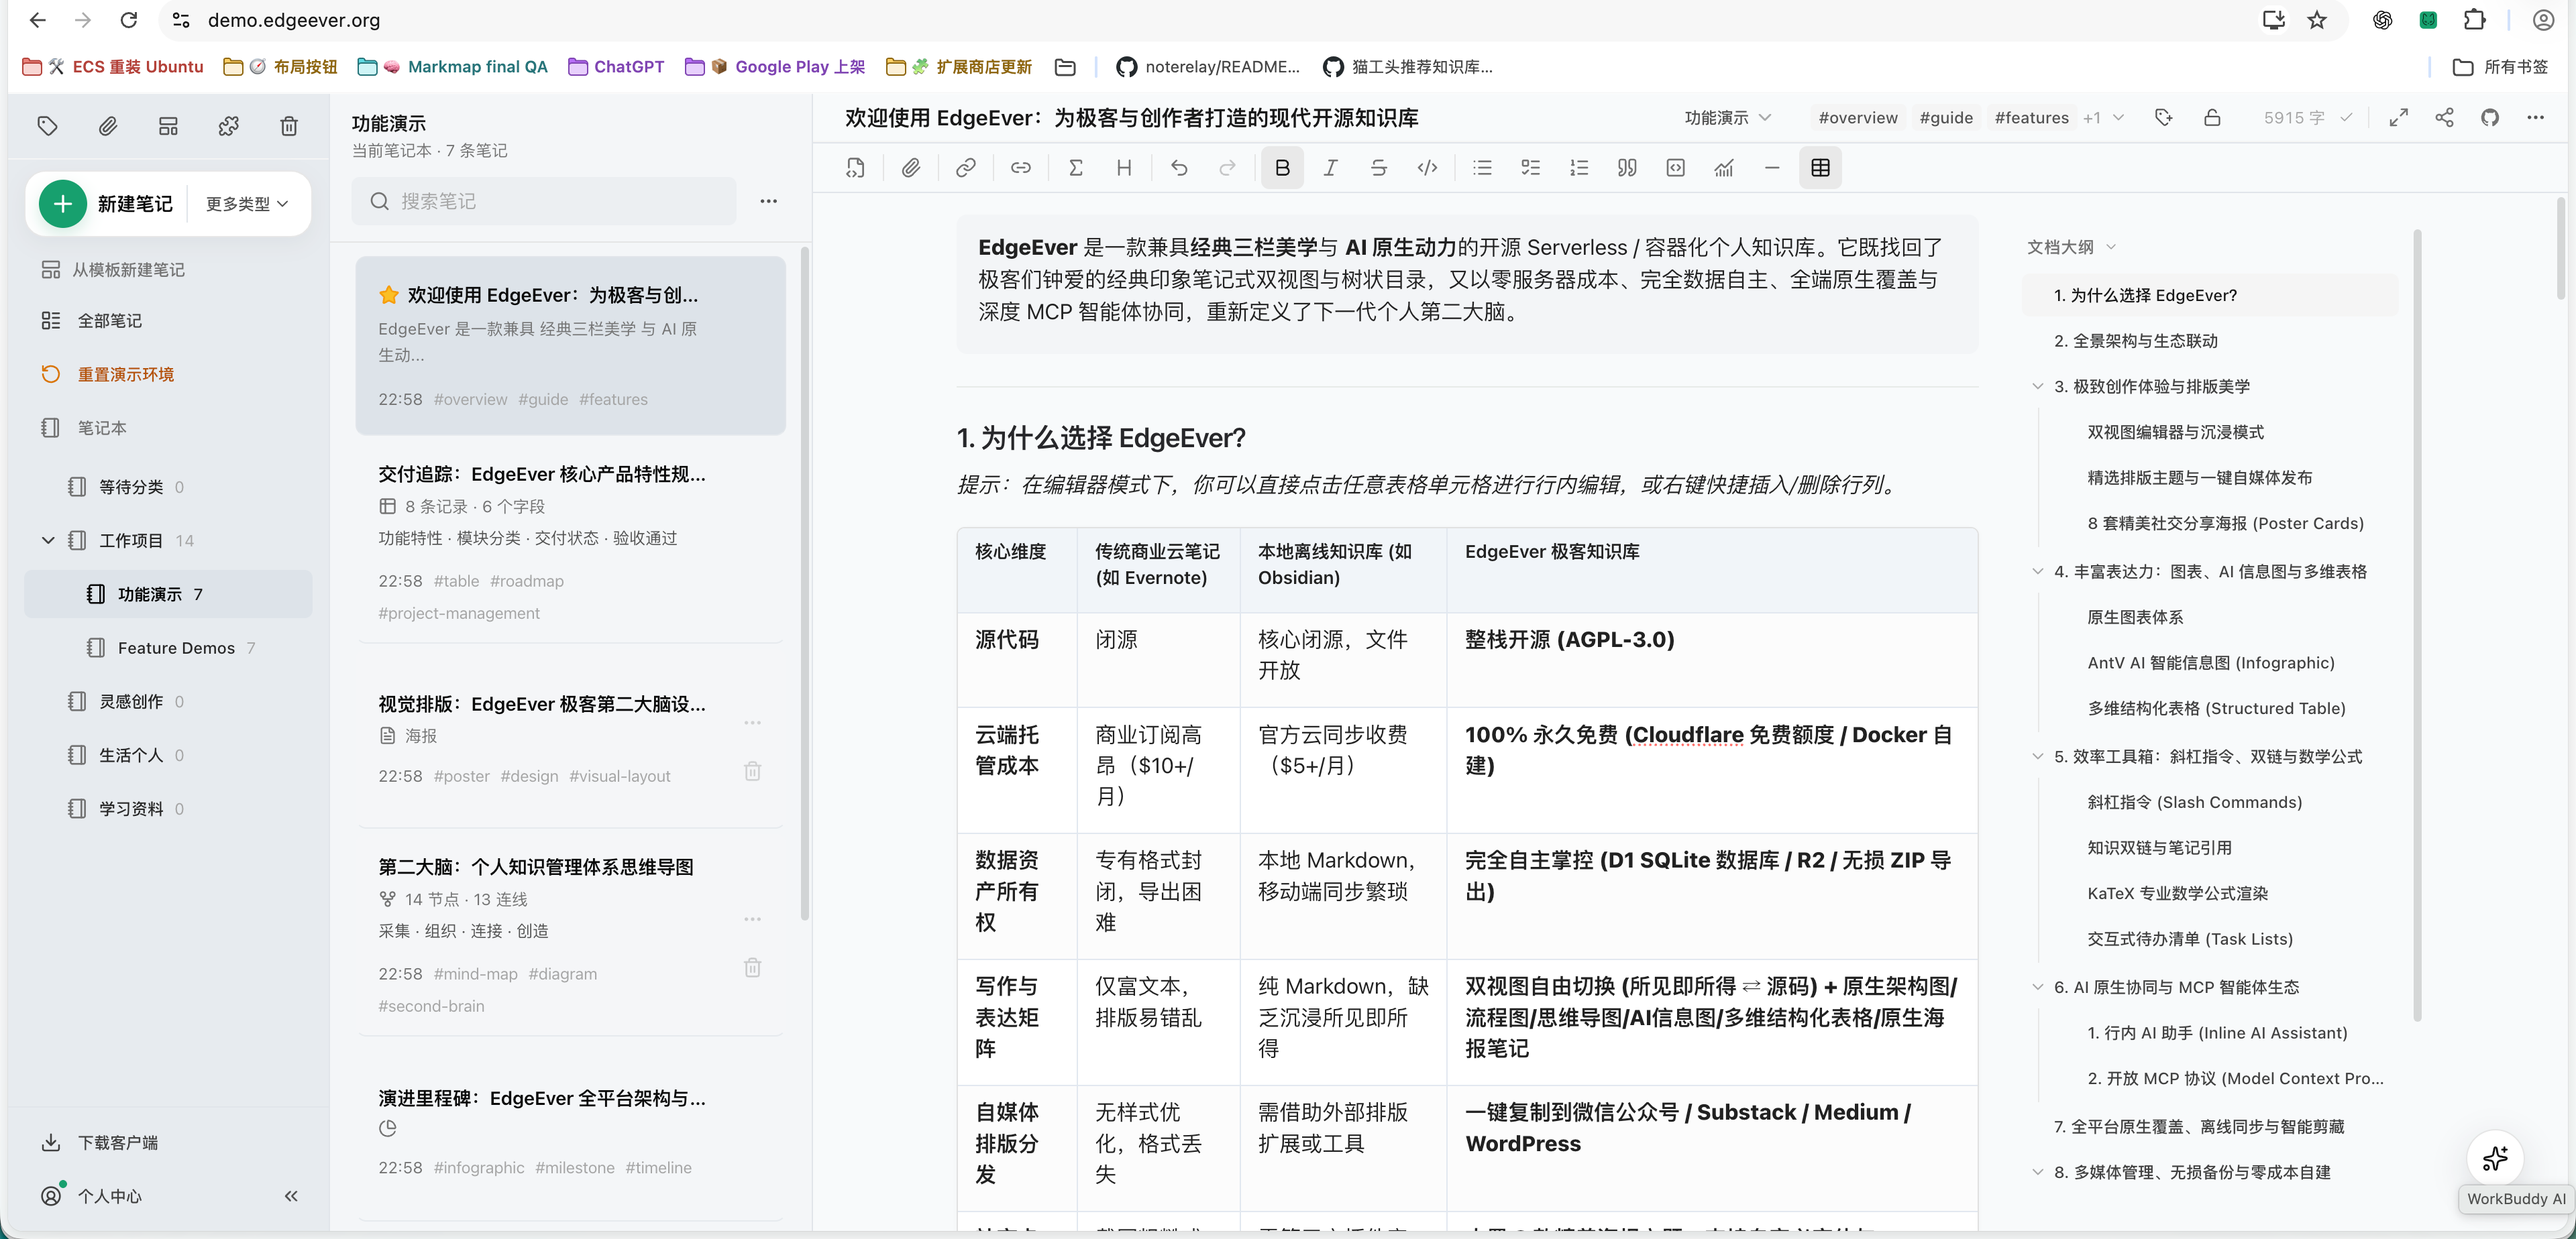
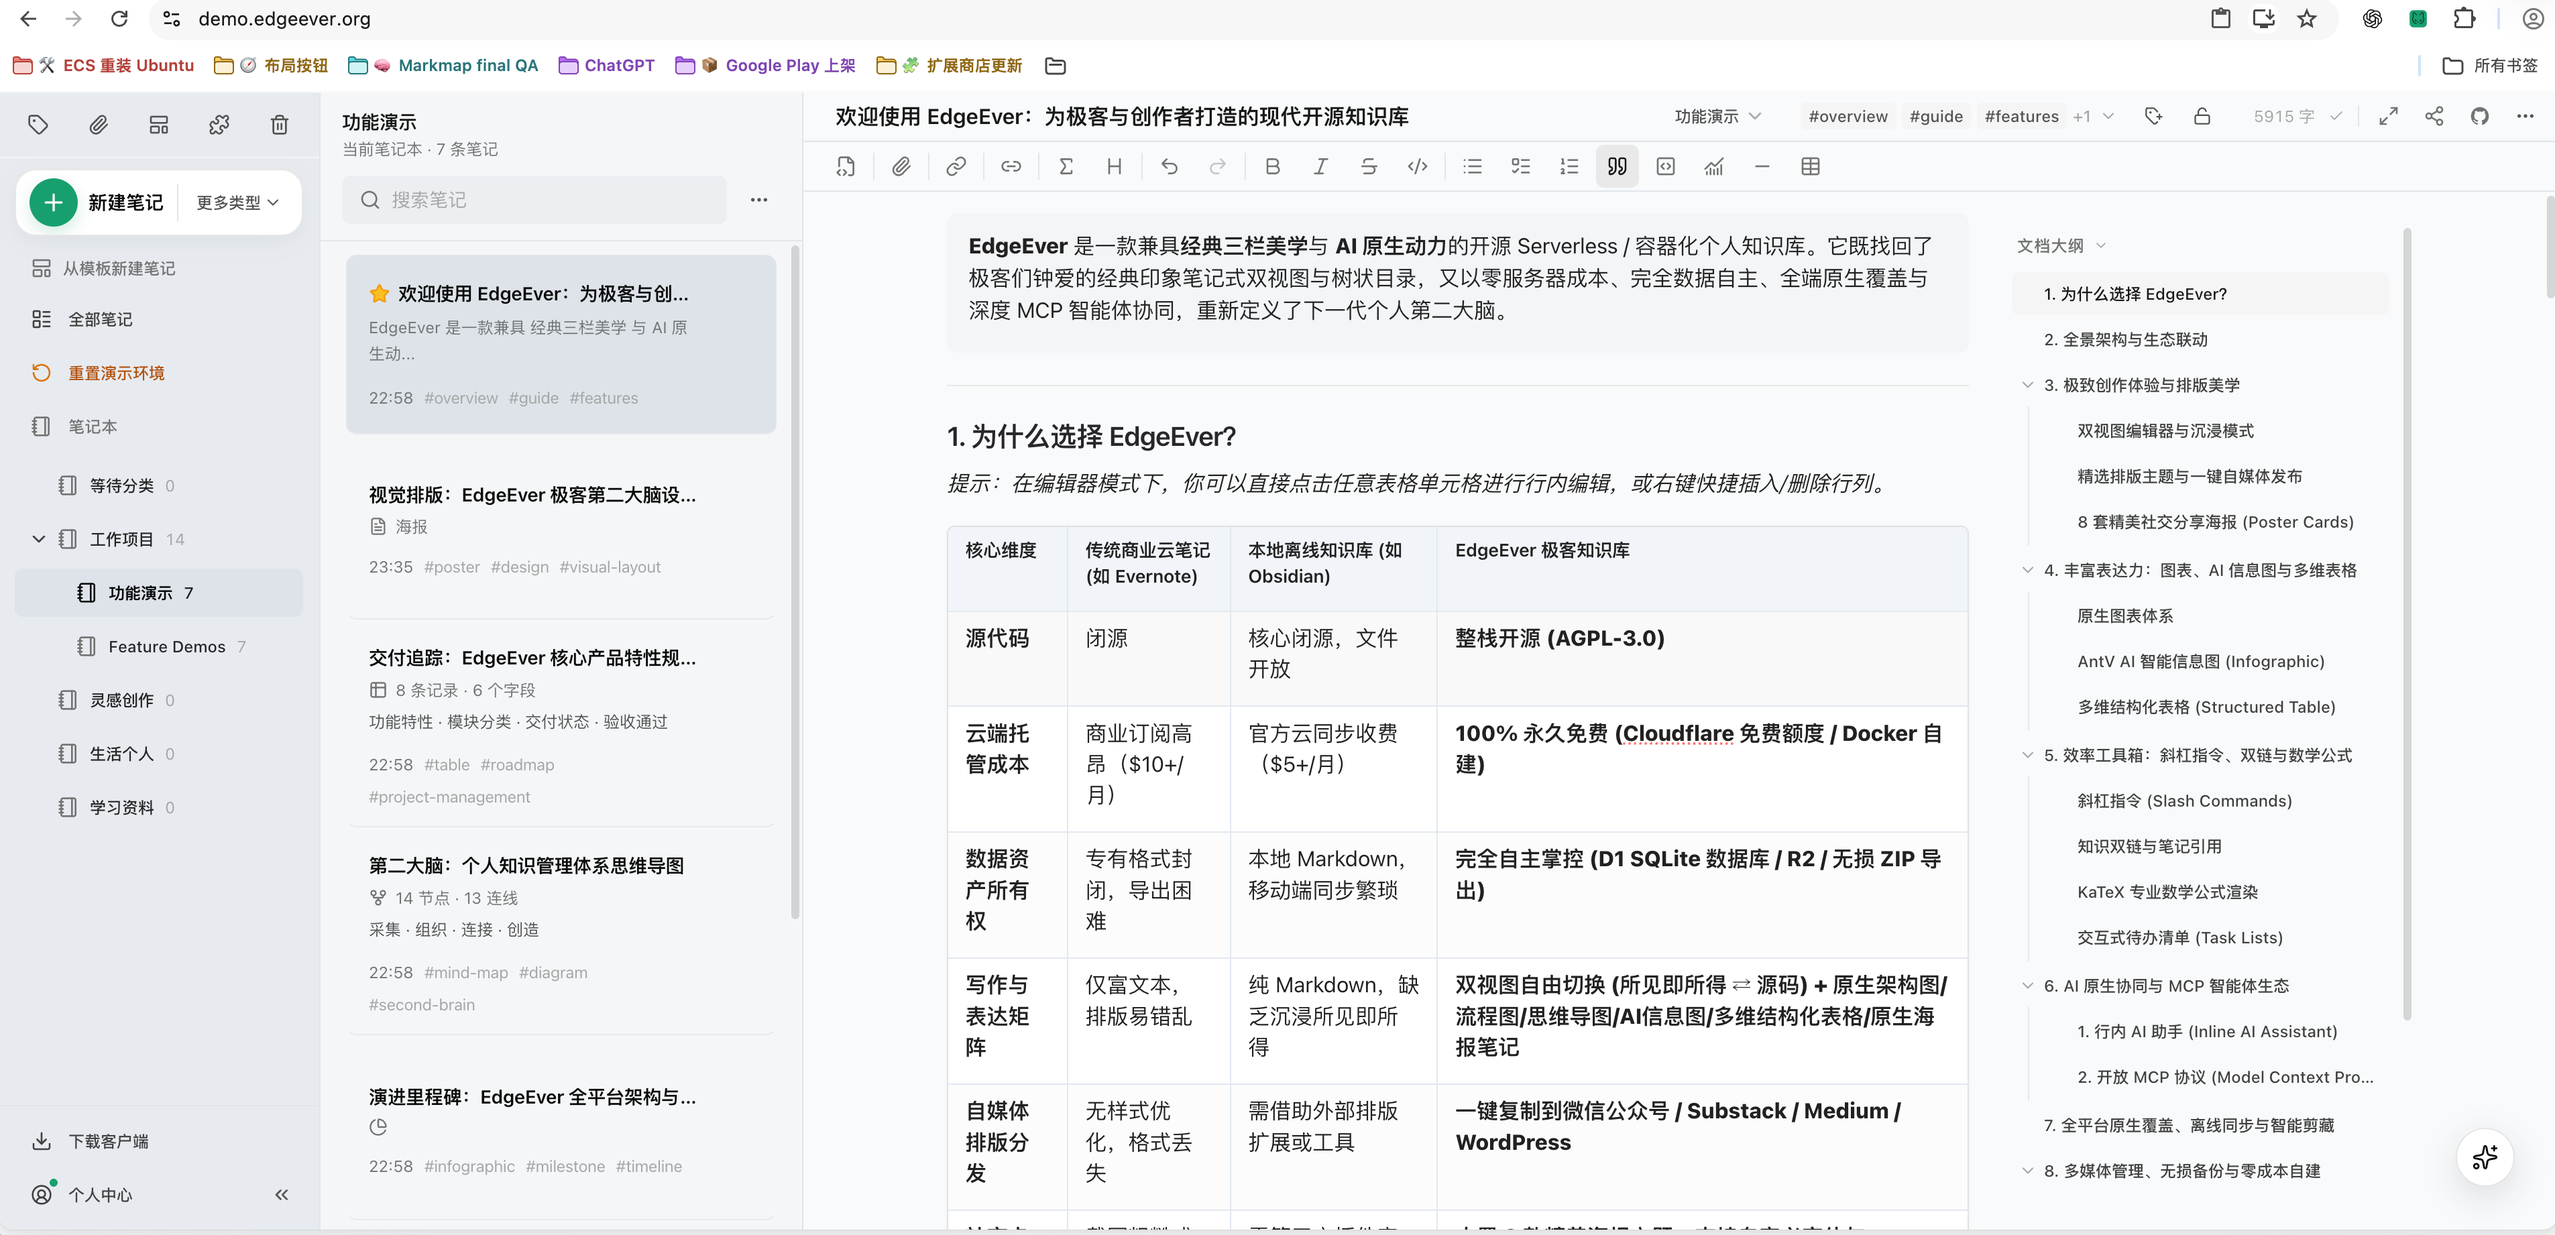
docs(best-practices): add classic three-pane workspace showcase and update READMEs

diff --git a/docs/best-practices.md b/docs/best-practices.md
@@ -19,6 +19,7 @@ A curated collection of practical workflows, showcase examples, and real-world s
 - [14. One-Click Public Online Form Collection from Database Tables](#14-one-click-public-online-form-collection-from-database-tables)
 - [15. Connecting Local Agents via ACP for Note Interaction & Co-pilot](#15-connecting-local-agents-via-acp-for-note-interaction--co-pilot)
 - [16. One-Click Social Media Poster & Cover Design from Notes](#16-one-click-social-media-poster--cover-design-from-notes)
+- [17. Classic Three-Pane Workspace & Distraction-Free Editing](#17-classic-three-pane-workspace--distraction-free-editing)
 
 ---
 
@@ -221,6 +222,22 @@ The studio provides 40+ professionally crafted social media poster templates (su
 | Transform notes into posters with 40+ professional social media templates |
 | :---: |
 | ![EdgeEver Poster Design Studio and template library](assets/best-practices/poster-design-templates.png) |
+
+---
+
+## 17. Classic Three-Pane Workspace & Distraction-Free Editing
+
+EdgeEver embraces the beloved, highly productive classic three-pane workspace layout (Notebook Tree · Note List Stream · Deep Rich-Text Editor):
+
+- **Left-hand Hierarchical Tree**: Features infinite-nesting notebooks, multi-level folders, quick-filtering tag taxonomies, and trash management for clear, comprehensive knowledge organization.
+- **Center Note List Stream**: Offers instant sub-millisecond search filtering, pinned notes, multiple sorting criteria, and rich-text/table card summary previews.
+- **Right-hand Editor & Typography Canvas**: Provides seamless bi-directional switching between WYSIWYG and native Markdown, with built-in multi-dimensional tables, code syntax highlighting, KaTeX math formulas, floating document outlines, and a co-pilot AI assistant.
+
+Each pane width can be dynamically adjusted or collapsed on demand, maintaining rigorous structural organization while delivering a distraction-free, immersive long-form writing environment.
+
+| Classic Three-Pane Workspace (Notebook Tree · Note List · Deep Editor) |
+| :---: |
+| ![EdgeEver Classic Three-Pane Workspace & Typography Editor](assets/best-practices/classic-three-pane-workspace.png) |
 
 ---
 

diff --git a/README.pl-PL.md b/README.pl-PL.md
@@ -90,7 +90,7 @@ Wszechstronny obszar roboczy łączący zbieranie inspiracji, głębokie tworzen
 | **AI i ekosystem** | • Asystent AI w panelu bocznym do streszczeń, korekty, tłumaczeń i redakcji<br>• Własne klucze API (BYOK): zgodność z OpenAI, Claude, Gemini i serwerami proxy | • **Protokoły MCP i ACP**: Wbudowany MCP do odczytu/zapisu przez agentów zewnętrznych; ACP w aplikacji desktopowej do współpracy z lokalnymi agentami<br>• **Inteligentne podsumowania RSS AI**: Agregacja źródeł, filtrowanie szumu i generowanie zwięzłych podsumowań<br>• API tworzenia wtyczek do rozbudowy funkcji |
 | **Synchronizacja i fundament** | • Natychmiastowa synchronizacja bez opóźnień na komputerach, telefonach i w sieci bez limitu urządzeń<br>• Oficjalne aplikacje na Web, macOS, Windows, Linux, iOS i Android<br>• Architektura offline-first i kolejka synchronizacji: płynne pisanie bez sieci, automatyczna synchronizacja po połączeniu<br>• Standardowa baza SQLite, bezstratny eksport/import archiwów ZIP i Markdown | • **Zero kosztów serwera na zawsze**: 100% działania w darmowym planie Cloudflare (~150 tys. notatek i ~50 tys. obrazów)<br>• **Elastyczny hosting Docker**: Wdrożenie na VPS, NAS lub domowym serwerze dla milionów notatek z natychmiastową synchronizacją<br>• Ochrona serwera przed atakami brute-force i bezpieczna izolacja |
 
-👉 Wszystkie 16 scenariuszy ze zrzutami ekranu opisuje [pełny przewodnik po funkcjach i zastosowaniach](docs/best-practices.md).
+👉 Wszystkie 17 scenariuszy ze zrzutami ekranu opisuje [pełny przewodnik po funkcjach i zastosowaniach](docs/best-practices.md).
 
 ## Wdrożenie
 

diff --git a/README.md b/README.md
@@ -90,7 +90,7 @@ An all-in-one workspace connecting inspiration capture, deep creation, and knowl
 | **AI & Ecosystem** | • Companion sidebar AI assistant for summaries, proofreading & translations<br>• BYOK (Bring Your Own Key): compatible with OpenAI, Claude, Gemini & custom endpoints | • **Native Agent Protocols (MCP & ACP)**: Built-in MCP for external agent read/write; ACP in desktop app to drive local coding agents directly<br>• **AI RSS Daily Digest**: Automated feed aggregation, AI noise filtering, and structured digest generation<br>• Extensible Plugin Development API |
 | **Multi-Device Sync & Foundation** | • Seamless, low-latency sync across desktop, mobile, and web with zero device limits<br>• Official client support across Web, macOS, Windows, Linux, iOS, and Android<br>• Offline-first with auto-sync queue: write smoothly offline, automatically resume and sync when reconnected<br>• Standard SQLite database, lossless ZIP backup & Markdown export/import | • **Zero Server Cost for Life**: 100% runnable on Cloudflare Free tier (~150k short notes & ~50k images)<br>• **Flexible Docker Self-Hosting**: One-click deployment for VPS, NAS, or home server with millions of notes & instant sync<br>• Server-side brute-force protection and tenant security |
 
-👉 Explore all 16 step-by-step showcases with screenshots: **[Complete Showcase & Workflows Guide](docs/best-practices.md)**
+👉 Explore all 17 step-by-step showcases with screenshots: **[Complete Showcase & Workflows Guide](docs/best-practices.md)**
 
 ## Deployment
 
